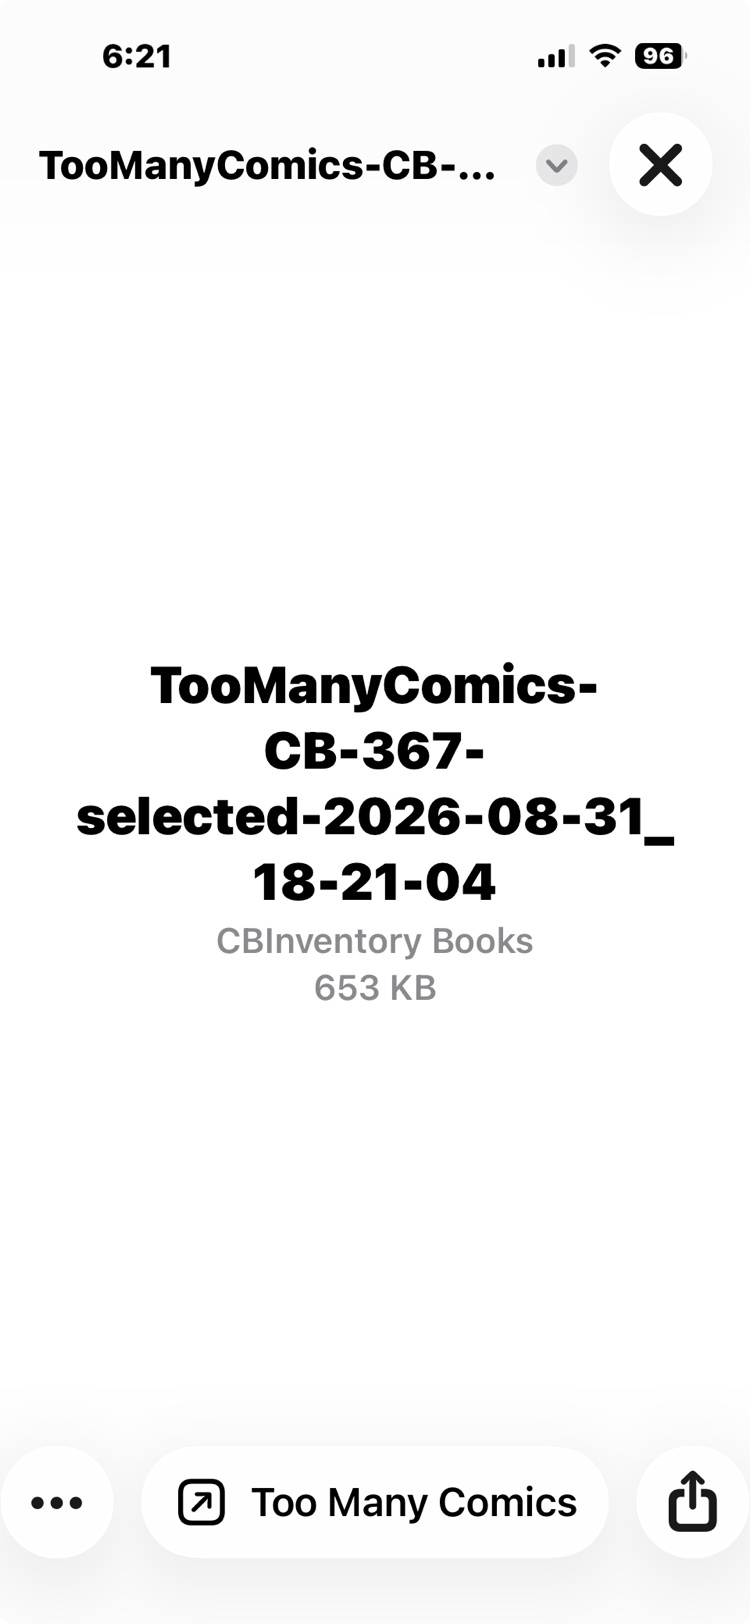
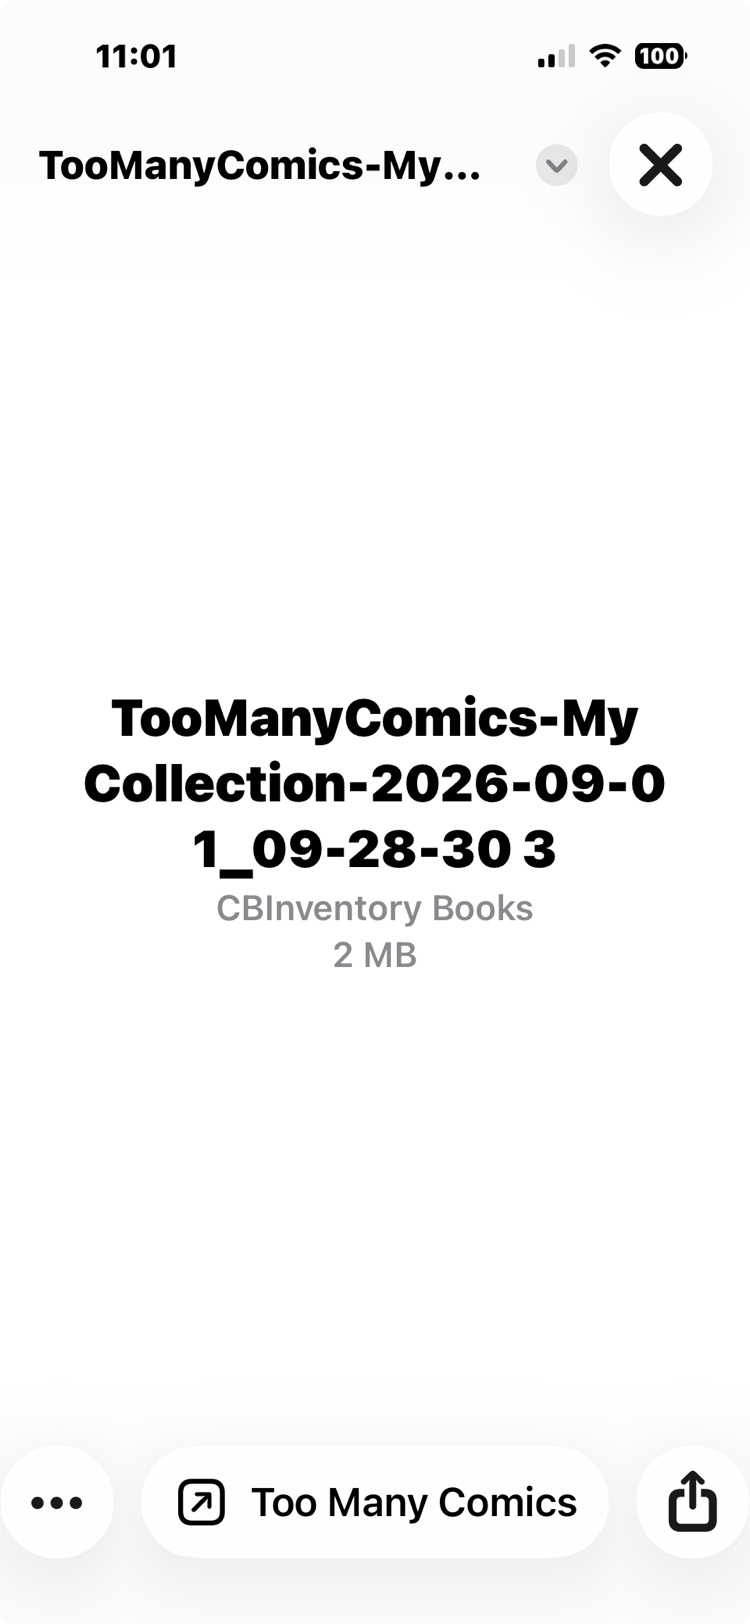
The arrival screenshot retakes, and the raws stop lingering
New policy, born of five files for two pictures: a raw drop is deleted
the moment its processed asset exists. Screenshots are retakeable; the
750px asset the page serves is the only copy worth keeping.

diff --git a/howto/sharing-backup-restore.html b/howto/sharing-backup-restore.html
@@ -224,7 +224,7 @@
     <div class="phone-strip">
       <figure>
         <img src="../images/airdrop-receive-1.jpg" width="750" height="1624" loading="lazy"
-             alt="An arrived .cbshare file on the receiving phone, named TooManyComics-CB-367-selected with a date stamp, 653 kilobytes, and a Too Many Comics open button at the bottom." />
+             alt="An arrived .cbshare file on the receiving phone, named TooManyComics-My Collection with a date stamp, 2 megabytes, and a Too Many Comics open button at the bottom." />
         <figcaption>The AirDrop arrives; one tap opens it straight into Too Many
           Comics.</figcaption>
       </figure>
